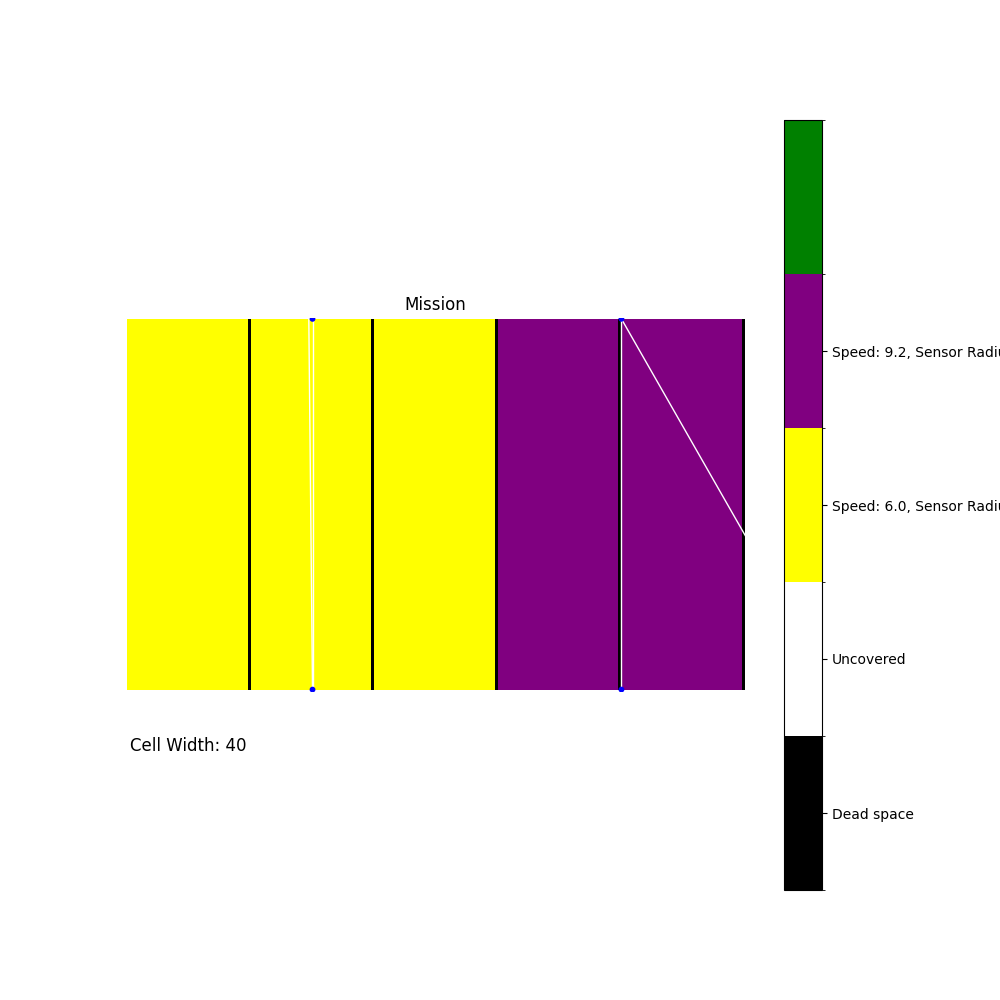
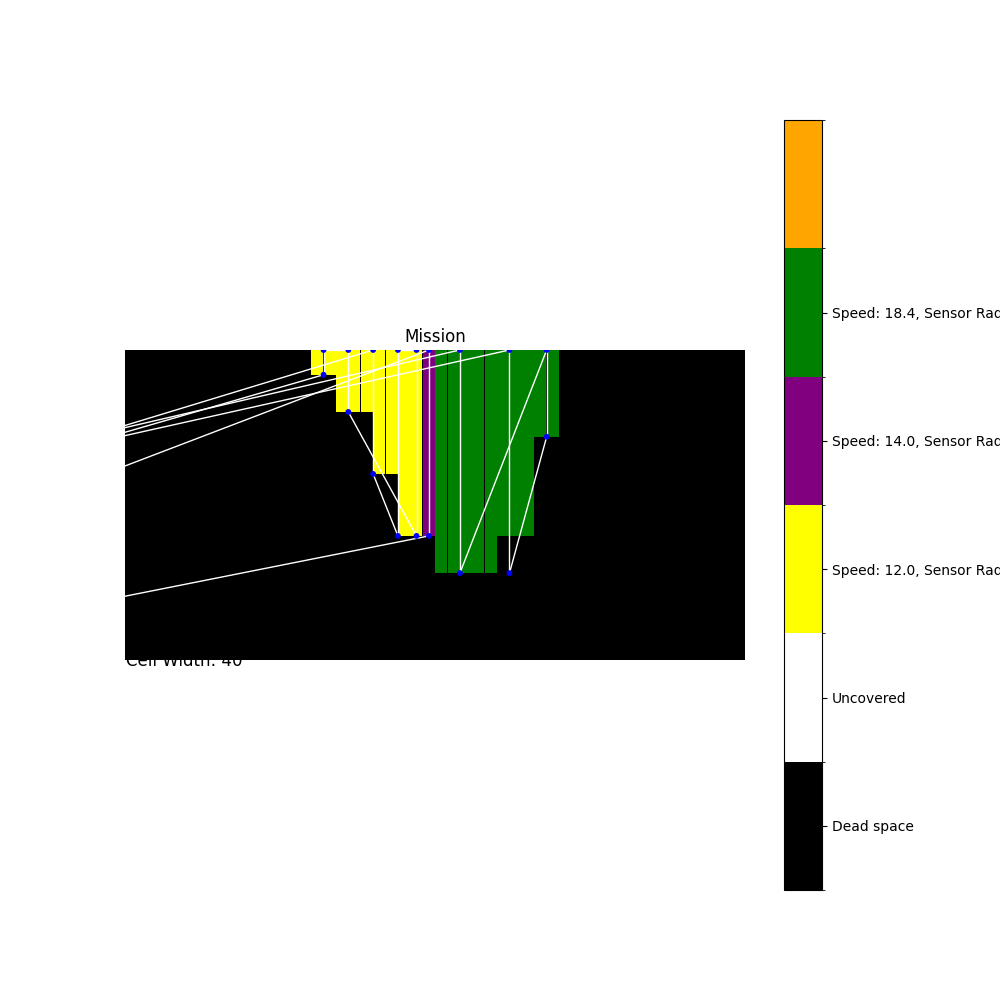
Vehicles starting on same side of survey area are now adjusted properly. Negative survey area dimensions are turned to absolute value. Vehicles are added after cell decomposition growth.

diff --git a/py/HARMONY/AlgorithmDevelopment/cyclicRegionGrowth.py b/py/HARMONY/AlgorithmDevelopment/cyclicRegionGrowth.py
@@ -39,6 +39,11 @@ def cyclic_region_growth(mission: MissionArea):
         account_balances[i] = OptimalTasks[i]
         rate[i] = int(OptimalTasks[i]/min(OptimalTasks))
         NV_k[i] = set((mission.grid_graph.graph[R[i]].keys()))
+        # Other vehicle nodes can not be in NV_k
+        for r in R:
+            if r is not R[i] and r in NV_k[i]:
+                NV_k[i].remove(r)
+
 
     last_updated_cell = 0;
     while (N > len(R)):  # This is len R because the once the last nodes are updated, if statement doesn't N-1 again.

diff --git a/py/HARMONY/AlgorithmDevelopment/generateAssignments.py b/py/HARMONY/AlgorithmDevelopment/generateAssignments.py
@@ -19,8 +19,10 @@ def generate_assignments(UxVs, grid_data, show_graph=False, mission_name="Missio
     cellDimension = int(calculate_sensor_range_gcd(UxVs))
     mission = MissionArea(mission_name, grid_data, cellDimension)
 
-    mission.add_vehicles_to_graph(UxVs)
     cell_decomposition(mission)
+
+    mission.add_vehicles_to_graph(UxVs)
+
 
     bals = cyclic_region_growth(mission)
 

diff --git a/py/HARMONY/AlgorithmDevelopment/MissionArea.py b/py/HARMONY/AlgorithmDevelopment/MissionArea.py
@@ -119,6 +119,7 @@ class MissionArea:
 
             self.vehicles.append(node_label)
             self.vehicle_assignments[node_label] = set()
+            self.vehicle_assignments[node_label].add(node_label)
             self.original_positions[node.name] = node_original_pos
             self.original_positions[node_label] = node_original_pos
 

diff --git a/py/HARMONY/SurveyArea.py b/py/HARMONY/SurveyArea.py
@@ -1,8 +1,9 @@
 
 class SurveyArea:
     def __init__(self, width, height, position : tuple, gcd):
-        self.width = width
-        self.height = height
+        self.width = abs(width)
+
+        self.height = abs(height)
         self.position = position  # (x, y)
         self.gcd = gcd
 
